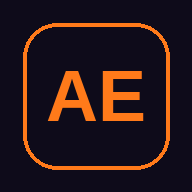
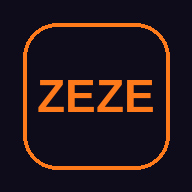
Add files via upload

Changed region(s): [[0.1875, 0.3438, 0.8125, 0.6562]]

diff --git a/index.html b/index.html
@@ -3,7 +3,7 @@
 <head>
 <meta charset="UTF-8">
 <meta name="viewport" content="width=device-width, initial-scale=1">
-<title>Arène Esport – Tournois Free Fire et eFootball</title>
+<title>ZEZE GAME ZONE – Tournois Free Fire et eFootball</title>
 <style>
   /* ===== 1. Variables : modifie les couleurs ici ===== */
   :root {
@@ -35,8 +35,8 @@
   /* ===== 2. Barre de navigation ===== */
   header { border-bottom: 1px solid var(--ligne); }
   nav { display: flex; flex-wrap: wrap; justify-content: space-between; align-items: center; gap: 1rem; padding: .9rem 0; }
-  ..logo { font-family: "Impact", sans-serif; font-size: 1.4rem; }
-.logo img { vertical-align: middle; margin-right: .5rem; }
+  .logo { font-family: "Impact", sans-serif; font-size: 1.4rem; }
+  .logo img { vertical-align: middle; margin-right: .5rem; }
   .logo span { color: var(--accent); }
   nav ul { display: flex; gap: 1.2rem; list-style: none; font-size: .95rem; color: var(--discret); }
   nav a:hover { color: var(--texte); }
@@ -107,7 +107,7 @@
 
 <header>
   <nav class="conteneur">
-    <a href="#haut" class="logo"> ARÈNE<span>.</span>ESPORT</a>
+    <a href="#haut" class="logo"><img src="icon-192.png" alt="" width="32" height="32"> ZEZE <span>GAME</span> ZONE</a>
     <ul>
       <li><a href="#tournois">Tournois</a></li>
       <li><a href="services.html">Services</a></li>
@@ -120,7 +120,7 @@
 <main id="haut">
   <!-- HERO + COMPTEUR -->
   <div class="hero conteneur">
-    <h1>VIENS NOUS MONTRER QUE TU ADORES LES JEUX 🎮🎉</h1>
+    <h1>QUE LA BATAILLE COMMENCE SOYONS SANS PITIÉ 🎮🎉</h1>
     <p>Tournois Free Fire et eFootball, coaching personnalisé, designs et configurations pour les joueurs qui veulent passer au niveau supérieur.</p>
 
     <div class="compteur-boite">
@@ -181,13 +181,13 @@
     <div class="conteneur">
       <h2>Prêt à t’inscrire ?</h2>
       <p>Écris-moi sur WhatsApp pour réserver ta place ou un service.</p>
-      <!-- Remplace 225XXXXXXXXXX par ton numéro (indicatif + numéro, sans + ni espaces) -->
-      <a class="bouton" href="https://wa.me/225XXXXXXXXXX">Me contacter sur WhatsApp</a>
+      <!-- Numéro WhatsApp : indicatif + numéro, sans + ni espaces -->
+      <a class="bouton" href="https://wa.me/2250171194065">Me contacter sur WhatsApp</a>
     </div>
   </section>
 </main>
 
-<footer>© 2026 Arène Esport. Tous droits réservés.</footer>
+<footer>© 2026 ZEZE GAME ZONE. Tous droits réservés.</footer>
 
 <script>
   // ===== Réglages du compteur : modifie ces deux lignes =====

diff --git a/comptes.html b/comptes.html
@@ -3,7 +3,7 @@
 <head>
 <meta charset="UTF-8">
 <meta name="viewport" content="width=device-width, initial-scale=1">
-<title>Comptes de jeux – Arène Esport</title>
+<title>Comptes de jeux – ZEZE GAME ZONE</title>
 <style>
   :root {
     --fond: #0e0b1a;
@@ -119,7 +119,7 @@
 
 <header>
   <nav class="conteneur">
-    <a href="index.html" class="logo">ARÈNE<span>.</span>ESPORT</a>
+    <a href="index.html" class="logo">ZEZE <span>GAME</span> ZONE</a>
     <a href="index.html" class="retour">Retour à l’accueil</a>
   </nav>
 </header>
@@ -220,7 +220,7 @@
 
 <script>
   // ===== Réglage : ton numéro WhatsApp (indicatif + numéro, sans + ni espaces) =====
-  const NUMERO_ORGANISATEUR = "225XXXXXXXXXX";
+  const NUMERO_ORGANISATEUR = "2250171194065";
 
   const JEUX = ["eFootball", "Free Fire", "FC Mobile", "Call of Duty"];
   const PLATEFORMES = ["Mobile", "PC", "PlayStation"];

diff --git a/inscription.html b/inscription.html
@@ -3,7 +3,7 @@
 <head>
 <meta charset="UTF-8">
 <meta name="viewport" content="width=device-width, initial-scale=1">
-<title>Inscription – Arène Esport</title>
+<title>Inscription – ZEZE GAME ZONE</title>
 <style>
   :root {
     --fond: #0e0b1a;
@@ -80,7 +80,7 @@
 
 <header>
   <nav>
-    <a href="index.html" class="logo">ARÈNE<span>.</span>ESPORT</a>
+    <a href="index.html" class="logo">ZEZE <span>GAME</span> ZONE</a>
     <a href="index.html" class="retour">Retour à l’accueil</a>
   </nav>
 </header>
@@ -132,7 +132,7 @@
 
 <script>
   // ===== Réglage : ton numéro WhatsApp d'organisateur (indicatif + numéro, sans + ni espaces) =====
-  const NUMERO_ORGANISATEUR = "225XXXXXXXXXX";
+  const NUMERO_ORGANISATEUR = "2250171194065";
 
   const formulaire = document.getElementById("formulaire");
   const champJeu = document.getElementById("jeu");

diff --git a/services.html b/services.html
@@ -3,7 +3,7 @@
 <head>
 <meta charset="UTF-8">
 <meta name="viewport" content="width=device-width, initial-scale=1">
-<title>Services – Arène Esport</title>
+<title>Services – ZEZE GAME ZONE</title>
 <style>
   :root {
     --fond: #0e0b1a;
@@ -84,7 +84,7 @@
 
 <header>
   <nav class="conteneur">
-    <a href="index.html" class="logo">ARÈNE<span>.</span>ESPORT</a>
+    <a href="index.html" class="logo">ZEZE <span>GAME</span> ZONE</a>
     <a href="index.html" class="retour">Retour à l’accueil</a>
   </nav>
 </header>
@@ -101,7 +101,7 @@
 
 <script>
   // ===== Réglage : ton numéro WhatsApp (indicatif + numéro, sans + ni espaces) =====
-  const NUMERO_ORGANISATEUR = "225XXXXXXXXXX";
+  const NUMERO_ORGANISATEUR = "2250171194065";
 
   // ===== Catalogue : ajoute, modifie ou supprime des offres ici =====
   const SERVICES = [

diff --git a/sw.js b/sw.js
@@ -1,5 +1,5 @@
 // Change ce numéro à chaque mise à jour du site pour renouveler le cache
-const VERSION = "arene-v1";
+const VERSION = "arene-v2";
 
 const FICHIERS = [
   "index.html",
